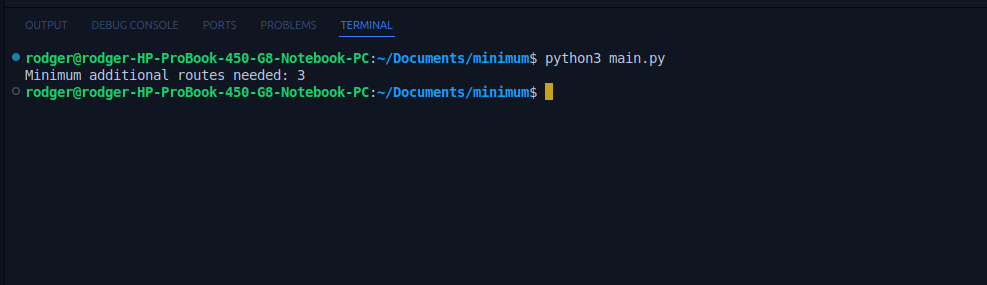
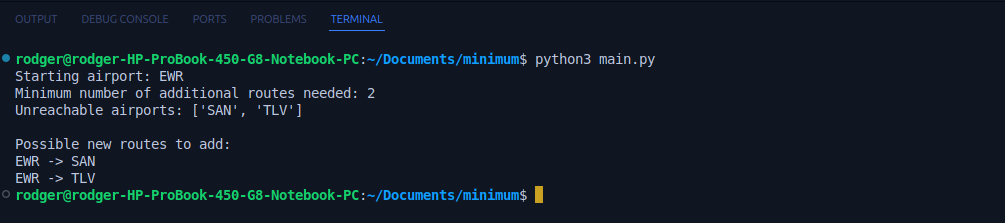
chore: updates

diff --git a/optimizer.py b/optimizer.py
@@ -1,65 +1,76 @@
-from graph import DirectedGraph
-from collections import defaultdict
-from kosajaru_algo import KosarajuSCC
+from graph import Graph
+from kosajaru_algo import KosarajuAlgorithm
 
-class FlightRoutesOptimizer:
+
+class FlightRouteOptimizer:
+    """
+    Class to optimize flight routes by minimizing the number of additional routes required
+    to make all airports reachable from a starting airport.
+    """
     def __init__(self, routes, airports):
-        """Initialize the optimizer with routes and airports."""
         self.routes = routes
         self.airports = airports
-        self.graph = DirectedGraph()
+        self.graph = Graph(airports)
         self.build_graph()
 
     def build_graph(self):
-        """Build the directed graph with the provided routes."""
-        for src, dst in self.routes:
-            self.graph.add_edge(src, dst)
+        """
+        Build the directed graph using the provided routes.
+        """
+        for route in self.routes:
+            self.graph.add_edge(route[0], route[1])
 
-    def build_component_graph(self, components):
-        """Build a graph where each node represents an SCC."""
-        # Create mapping of airport to component ID
-        airport_to_component = {}
-        for i, component in enumerate(components):
-            for airport in component:
-                airport_to_component[airport] = i
+    def find_reachable_airports(self, start_airport):
+        """
+        Find all reachable airports using Kosaraju's Algorithm:
+        1. Find Strongly Connected Components (SCCs).
+        2. Compress the graph based on SCCs.
+        3. Determine which SCCs have no incoming edges (in-degree = 0), excluding the start SCC.
+        """
+        kosaraju = KosarajuAlgorithm(self.graph)
+        sccs = kosaraju.find_scc()
 
-        # Build component graph
-        component_graph = defaultdict(set)
-        for src in self.graph.graph:
-            src_component = airport_to_component[src]
-            for dst in self.graph.graph[src]:
-                dst_component = airport_to_component[dst]
-                if src_component != dst_component:
-                    component_graph[src_component].add(dst_component)
+        # Step 2: Compress the graph using the SCCs (treat each SCC as a node)
+        scc_map = {}
+        for i, scc in enumerate(sccs):
+            for node in scc:
+                scc_map[node] = i
 
-        return dict(component_graph), airport_to_component
+        compressed_graph = Graph(range(len(sccs)))
+        for u, v in self.routes:
+            u_scc = scc_map[u]
+            v_scc = scc_map[v]
+            if u_scc != v_scc:
+                compressed_graph.add_edge(u_scc, v_scc)
+
+        # Step 3: Calculate in-degree for each SCC in the compressed graph
+        in_degrees = [0] * len(sccs)
+        for u_scc in compressed_graph.graph:
+            for v_scc in compressed_graph.graph[u_scc]:
+                in_degrees[v_scc] += 1
+
+        # Find SCCs with in-degree = 0
+        zero_in_degree_sccs = []
+        start_scc = scc_map[start_airport]
+        for i in range(len(in_degrees)):
+            if in_degrees[i] == 0 and i != start_scc:
+                zero_in_degree_sccs.append(i)
+
+        return zero_in_degree_sccs, sccs, scc_map
 
     def min_additional_routes(self, start_airport):
-        """Calculate minimum number of additional routes needed."""
-        # Find SCCs
-        scc_finder = KosarajuSCC(self.graph.graph, self.airports)
-        components = scc_finder.kosaraju_scc()
+        """
+        Calculate the minimum number of additional one-way routes needed to make
+        all airports reachable from the starting airport.
+        """
+        zero_in_degree_sccs, sccs, scc_map = self.find_reachable_airports(start_airport)
 
-        # If only one component, all airports are already reachable
-        if len(components) == 1:
-            return 0
+        # We need one route to each SCC that has in-degree = 0
+        num_additional_routes = len(zero_in_degree_sccs)
 
-        # Build component graph
-        component_graph, airport_to_component = self.build_component_graph(components)
+        # Convert SCC indices back to airport names for suggestions
+        unreachable_airports = []
+        for scc_index in zero_in_degree_sccs:
+            unreachable_airports.append(sccs[scc_index][0])  # Pick one airport from the SCC
 
-        # Find start component
-        start_component = airport_to_component[start_airport]
-
-        # Calculate in-degrees for each component
-        in_degrees = defaultdict(int)
-        for src in component_graph:
-            for dst in component_graph[src]:
-                in_degrees[dst] += 1
-
-        # Count components with in-degree = 0 (excluding the start component)
-        zero_in_degree_count = 0
-        for component_id in range(len(components)):
-            if component_id != start_component and in_degrees[component_id] == 0:
-                zero_in_degree_count += 1
-
-        return zero_in_degree_count
+        return num_additional_routes, unreachable_airports

diff --git a/kosajaru_algo.py b/kosajaru_algo.py
@@ -1,55 +1,41 @@
 from collections import defaultdict
 
 """
-Since we are dealing with a directed graph we will use Kosaraju's algorithm 
+Since we are dealing with a directed graph we will use Kosaraju's algorithm to find all Strongly Connected Components (SCCs)
 This algorithm has a linear Time Complexity
 And uses the Depth First Search Algorithm 
 """
 
-class KosarajuSCC:
-    def __init__(self, graph, airports):
+class KosarajuAlgorithm:
+    def __init__(self, graph):
         self.graph = graph
-        self.airports = airports
 
-    def kosaraju_scc(self):
-        """Find SCCs using Kosaraju's algorithm."""
-        # Step 1: First Depth First Search to get finishing times (reverse post-order)
-        #Depth First Search is a graph traversal algorithm used to explore nodes and edges of a graph
-        def dfs_first(node, visited, finish_order):
-            visited.add(node)
-            for neighbor in self.graph[node]:
-                if neighbor not in visited:
-                    dfs_first(neighbor, visited, finish_order)
-            finish_order.append(node)
+    def find_scc(self):
+        """
+        Finds all Strongly Connected Components (SCCs) in the graph.
+        Returns a list of SCCs, where each SCC is a list of vertices.
+        """
+        vertices = self.graph.vertices
+        visited = {v: False for v in vertices}
+        stack = []
 
-        # Step 2: Second Depth First Search on reversed graph (from end to begining)
-        def dfs_second(node, visited, component, reversed_graph):
-            visited.add(node)
-            component.append(node)
-            for neighbor in reversed_graph[node]:
-                if neighbor not in visited:
-                    dfs_second(neighbor, visited, component, reversed_graph)
+        # Step 1: Perform DFS on the original graph to get the finish order
+        for vertex in vertices:
+            if not visited[vertex]:
+                self.graph.dfs(vertex, visited, stack)
 
-        # First DFS
-        visited = set()
-        finish_order = []
-        for airport in self.airports:
-            if airport not in visited:
-                dfs_first(airport, visited, finish_order)
+        # Step 2: Reverse the graph
+        reversed_graph = self.graph.reverse_graph()
 
-        # Reverse the graph
-        reversed_graph = defaultdict(list)
-        for src in self.graph:
-            for dst in self.graph[src]:
-                reversed_graph[dst].append(src)
+        # Step 3: Perform DFS on the reversed graph in order of the stack (finish order)
+        visited = {v: False for v in vertices}
+        sccs = []  # List to hold all the strongly connected components
 
-        # Second DFS
-        visited = set()
-        components = []
-        for airport in reversed(finish_order):
-            if airport not in visited:
-                current_component = []
-                dfs_second(airport, visited, current_component, reversed_graph)
-                components.append(current_component)
+        while stack:
+            v = stack.pop()
+            if not visited[v]:
+                component = []
+                reversed_graph.dfs(v, visited, component)
+                sccs.append(component)
 
-        return components
+        return sccs

diff --git a/main.py b/main.py
@@ -1,19 +1,38 @@
-from optimizer import FlightRoutesOptimizer
+from optimizer import FlightRouteOptimizer
+
 
 if __name__ == "__main__":
-    # Sample data from the diagram
     airports = ['DSM', 'ORD', 'BGI', 'LGA', 'JFK', 'HND', 'ICN', 
                 'EWR', 'TLV', 'DEL', 'DOH', 'CDG', 'SIN', 'BUD', 
                 'SFO', 'SAN', 'EYW', 'LHR']
 
     routes = [
-        ('DSM', 'ORD'), ('ORD', 'BGI'), ('BGI', 'LGA'), ('JFK', 'LGA'),
-        ('ICN', 'JFK'), ('HND', 'ICN'), ('TLV', 'DEL'), ('DEL', 'DOH'),
-        ('DEL', 'CDG'), ('CDG', 'BUD'), ('CDG', 'SIN'), ('SIN', 'JFK'),
-        ('SFO', 'SAN'), ('SFO', 'DSM'), ('EYW', 'LHR'), ('SAN', 'EYW'),
-        ('LHR', 'SFO'), ('EWR', 'HND')
+        ('EWR', 'HND'),
+        ('HND', 'ICN'),
+        ('ICN', 'JFK'),
+        ('JFK', 'LGA'),
+        ('TLV', 'DEL'),
+        ('DEL', 'CDG'),
+        ('DEL', 'DOH'),
+        ('CDG', 'SIN'),
+        ('CDG', 'BUD'),
+        ('SIN', 'JFK'),
+        ('SFO', 'SAN'),
+        ('SFO', 'DSM'),
+        ('SAN', 'EYW'),
+        ('EYW', 'LHR'),
+        ('LHR', 'SFO'),
+        ('DSM', 'ORD'),
+        ('ORD', 'BGI'),
+        ('BGI', 'LGA')
     ]
 
-    optimizer = FlightRoutesOptimizer(routes, airports)
-    result = optimizer.min_additional_routes('DSM')
-    print(f"Minimum additional routes needed: {result}")
+    optimizer = FlightRouteOptimizer(routes, airports)
+    num_routes, unreachable_airports = optimizer.min_additional_routes('EWR')
+
+    print(f"Starting airport: EWR")
+    print(f"Minimum number of additional routes needed: {num_routes}")
+    print(f"Unreachable airports: {unreachable_airports}")
+    print("\nPossible new routes to add:")
+    for airport in unreachable_airports:
+        print(f"EWR -> {airport}")

diff --git a/graph.py b/graph.py
@@ -1,17 +1,35 @@
 from collections import defaultdict
 
-class DirectedGraph:
-    def __init__(self):
+
+class Graph:
+
+    def __init__(self, vertices):
         self.graph = defaultdict(list)
+        self.vertices = vertices
 
-    def add_edge(self, src, dst):
-        """Add an edge from `src` to `dst` in the directed graph."""
-        self.graph[src].append(dst)
+    def add_edge(self, u, v):
+        self.graph[u].append(v)
 
-    def reverse(self):
-        """Return the reversed version of the graph."""
-        reversed_graph = defaultdict(list)
-        for src in self.graph:
-            for dst in self.graph[src]:
-                reversed_graph[dst].append(src)
+    def dfs(self, v, visited, stack=None):
+        """
+        Depth First Search (DFS) utility.
+        - Marks nodes as visited.
+        - If 'stack' is provided, stores the finishing order of nodes in the stack.
+        """
+        visited[v] = True
+        for neighbor in self.graph[v]:
+            if not visited[neighbor]:
+                self.dfs(neighbor, visited, stack)
+        if stack is not None:
+            stack.append(v)
+
+    def reverse_graph(self):
+        """
+        Returns the reverse (transpose) of the graph where all edges are reversed.
+        This is required for the second phase of Kosaraju's algorithm.
+        """
+        reversed_graph = Graph(self.vertices)
+        for node in self.graph:
+            for neighbor in self.graph[node]:
+                reversed_graph.add_edge(neighbor, node)
         return reversed_graph

diff --git a/README.md b/README.md
@@ -1,11 +1,7 @@
 # Minimum Number of One way routes
 
-> [!NOTE]
-> There is a issue with the question as it mentions that we are provided with a starting airport but it was not specified as shown on the image
-> Therefore this solution uses DSM as a starting airport as different starting airports provide different results.
-![Issue](https://raw.githubusercontent.com/RodgerCodes/MinimumNumberWayRouteAssessment/refs/heads/main/results/error.png)
 
 ## Results
 
-Assuming DSM in our starting airport
+Taking EWR in our starting node
 ![Results](https://raw.githubusercontent.com/RodgerCodes/MinimumNumberWayRouteAssessment/refs/heads/main/results/results.png)
